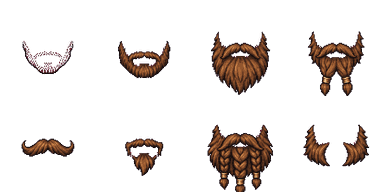
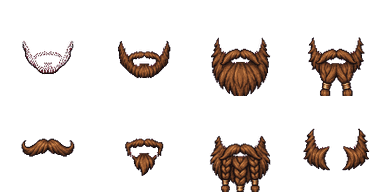
M8.10: wizard collar on the shoulders, fuller beards lower
Claude-Session: https://claude.ai/code/session_01AEHRuyPSDQGVtbtBJLwWks

diff --git a/scripts/cut-faces.py b/scripts/cut-faces.py
@@ -45,15 +45,27 @@ FIT = {
 }
 # Single parts that need their own fit, by layer and cell.
 OWN = {
+    # The fuller beards were drawn starting higher up the face (Mike, M8.10).
+    ("beards", 2): (1.0, 0, 14),
+    ("beards", 3): (1.0, 0, 14),
+    ("beards", 6): (0.92, 0, 17),  # the braids
+    ("beards", 7): (1.0, 0, 12),  # mutton chops
     ("injuries", 0): (1.0, 0, -10),  # the head bandage goes round the brow
     ("injuries", 4): (1.0, 0, 24),  # the sling sits on the shoulder
     ("hats", 0): (1.06, 0, -13),  # miner's cap
     ("hats", 1): (1.06, 0, -11),  # nasal helm
     ("hats", 2): (1.06, 0, -10),  # helmet and coif
-    ("hats", 3): (1.06, 0, -15),  # wizard hat
     ("hats", 10): (1.06, 0, -10),  # paladin's great helm
     ("hats", 12): (1.06, 0, -9),  # spellblade's half-helm
     ("hats", 15): (1.1, 0, 24),  # fur collar
+}
+
+# Parts drawn as two pieces with a gap between, each fitted on its own: the
+# row to cut at, then the fit above it and the fit below it.
+SPLIT = {
+    # The wizard hat and its collar: the hat sits on the head, the collar on
+    # the shoulders (Mike, M8.10).
+    ("hats", 3): (64, (1.06, 0, -15), (1.06, 0, 2)),
 }
 
 
@@ -82,8 +94,17 @@ def main(src, dest):
         rows = len(parts) // 4
         sheet = Image.new("RGBA", (4 * CELL, rows * CELL), (0, 0, 0, 0))
         for i, part in enumerate(parts):
+            at = ((i % 4) * CELL, (i // 4) * CELL)
+            if (layer, i) in SPLIT:
+                row, above, below = SPLIT[(layer, i)]
+                top, bottom = part.copy(), part.copy()
+                top.paste((0, 0, 0, 0), (0, row, CELL, CELL))
+                bottom.paste((0, 0, 0, 0), (0, 0, CELL, row))
+                sheet.alpha_composite(fitted(top, above), at)
+                sheet.alpha_composite(fitted(bottom, below), at)
+                continue
             fit = OWN.get((layer, i), FIT[layer])
-            sheet.alpha_composite(fitted(part, fit), ((i % 4) * CELL, (i // 4) * CELL))
+            sheet.alpha_composite(fitted(part, fit), at)
         out = os.path.join(dest, f"{layer}.png")
         sheet.quantize(colors=256, method=Image.Quantize.FASTOCTREE).save(out, optimize=True)
         print(f"{layer}: {len(parts)} parts, 4x{rows}")

diff --git a/docs/DESIGN.md b/docs/DESIGN.md
@@ -1332,7 +1332,7 @@ A small icon set (`src/ui/art/icons/`) used everywhere names are: classes (roste
 - **Built in M8.06.** Mike drew the parts (DPBG-0018 to 0024: heads, hair, beards, scars and marks, injuries, two sheets of class headgear); `scripts/cut-faces.py` cuts them into 96px cells and lines each layer up on the head. `src/ui/art/Portrait.tsx` picks every layer by hashing the hero's id and birth name (a risen hero keeps their face, gone pale). Hair and beard share one of five colours, drawn as CSS filters over the brown the parts are painted in. Classes name their headgear cells (`hats` on `ClassDef`, checked by `validateLibrary`); porters wear the porter's cap; a hero with an injury shows one. Shown on roster cards, the memorial and hero fight tokens.
 - **M8.08: frames and more places.** The portrait frame takes the colour of the hero's alignment (`frame` on each alignment's content, checked by `validateLibrary`: Good gold, Neutral stone, Evil blood red). Portraits now also stand by each hero in the party panel's front and back rows, and across the top of the debrief (the fallen greyed and crossed, the hurt marked).
 - **M8.09: after Mike's first look.** Faces: the parts were drawn at the heads' scale, so they are no longer shrunk, only nudged (`FIT` in `scripts/cut-faces.py`); beards sit on the jaw, not under the eyes. Town map: the ground has grass, tufts, stones, flowers and woods outside the palisade, scattered from a fixed seed (`src/ui/town/map/ground.tsx`), and worn paths from the pit to each standing building. Fights: a move that strikes a whole group (Fireball, Cleave) draws a line and a ring to everyone it hit (`blows` from `stateAt`). The pit side on is a quarter shorter, one line of words per floor.
-- **M8.10: headgear fits.** Hoods, helms and hats are drawn a touch bigger than the head so they close round it, and hair is left off under them (`HIDES_HAIR` in `Portrait.tsx`): it poked out round the edges. Circlets, the porter's headband and the fur collar keep the hair.
+- **M8.10: headgear fits.** Hoods, helms and hats are drawn a touch bigger than the head so they close round it, and hair is left off under them (`HIDES_HAIR` in `Portrait.tsx`): it poked out round the edges. Circlets, the porter's headband and the fur collar keep the hair. The wizard hat's collar is cut apart from the hat and sits on the shoulders (`SPLIT`), and the fuller beards (2, 3, braids, mutton chops) sit lower.
 
 ### 6. Later, if wanted
 
